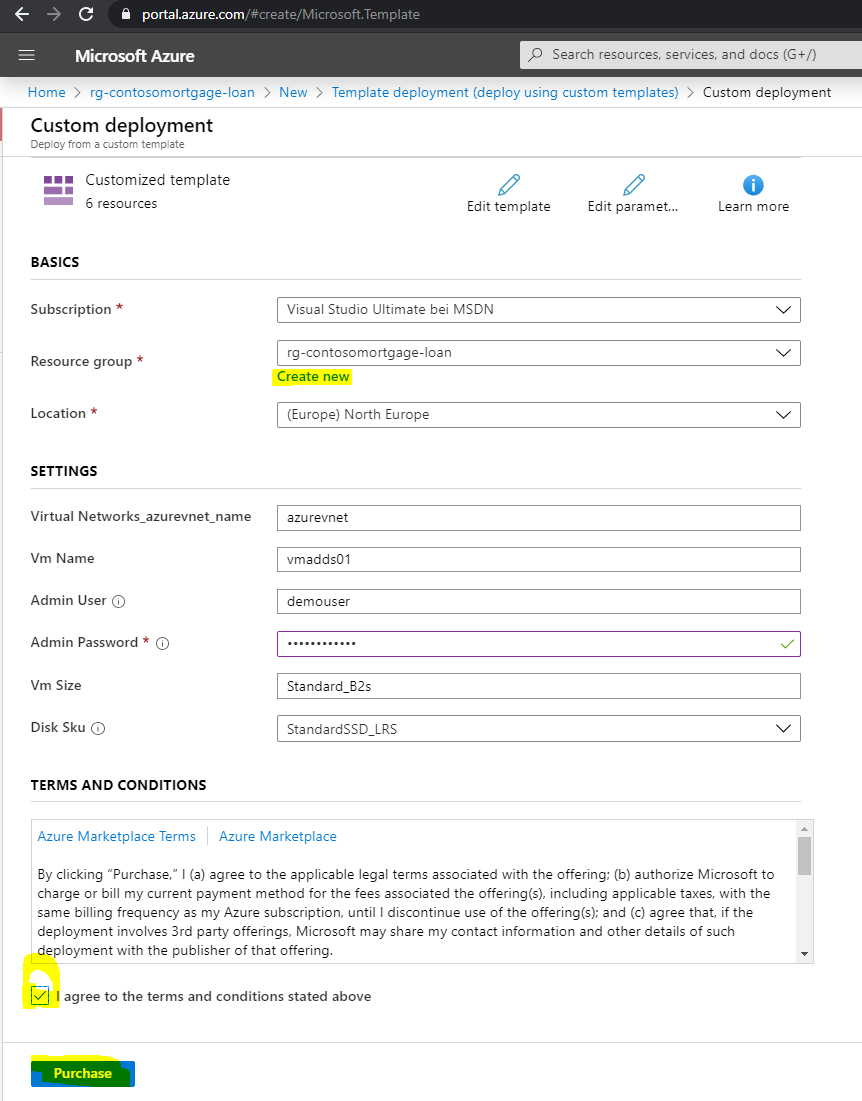
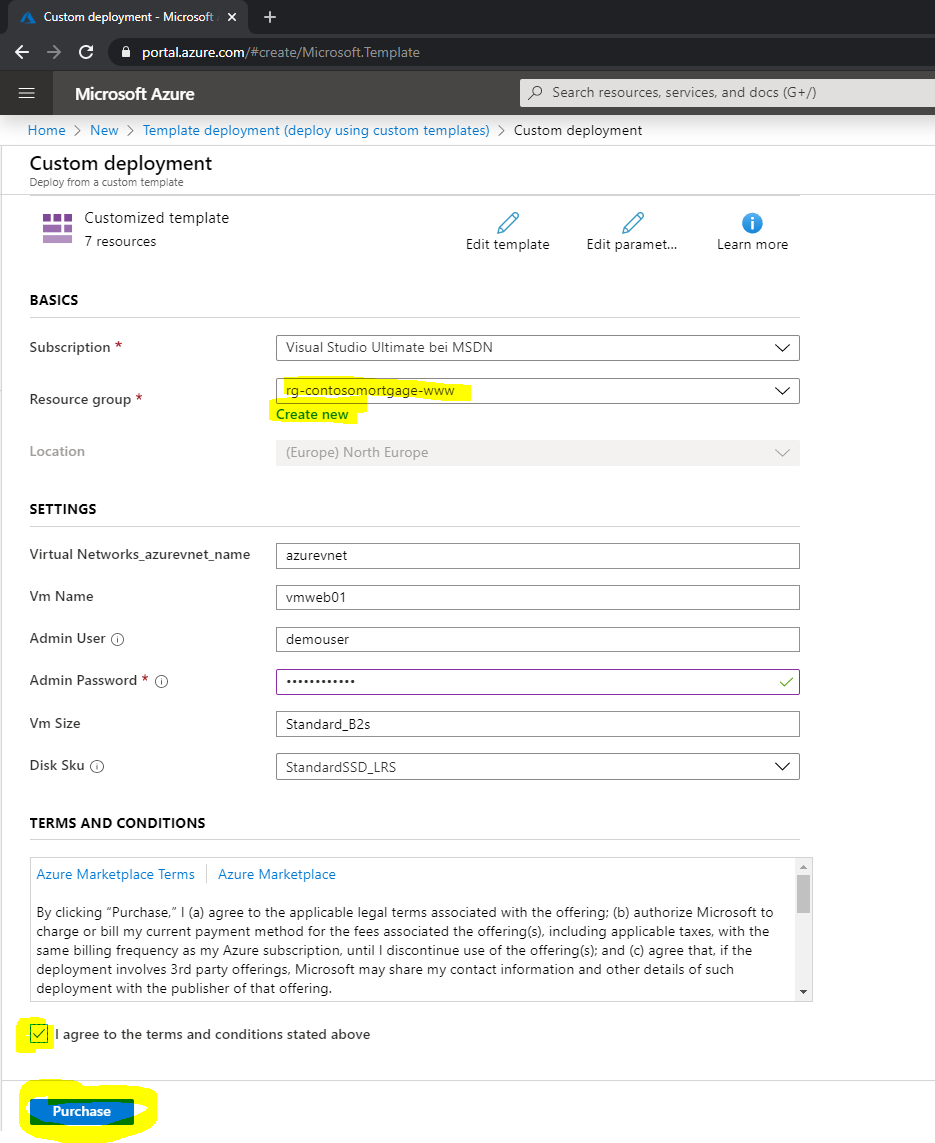
Updates

diff --git a/day1/challenges/Challenge 2/challenge-2.md b/day1/challenges/Challenge 2/challenge-2.md
@@ -1,4 +1,4 @@
-# Challenge 2: Create Azure Resources using an ARM Template 
+# Challenge 2: ARM: Create a VM and other Azure Resources using an ARM Template 
 [back](../../readme.md)  
 
 In this module you will **not learn** how to build an ARM template yourself. We'll do this at a later point in time.  
@@ -11,29 +11,29 @@ ARM _'powered'_ deployments are:
 
 ## Here is what you will learn ##
 
-- Creating azure resources using an ARM template and the portal.
+- Creating some azure resources (VNET, Subnets, VM,...) using an ARM template and the portal.
 
 ## Deploy an ARM template using the portal
 
-1. Please **cleanup** all resources that have been created in this workshop e.g. by deleting the resource groups.  
+0. _optional_ **Cleanup** all resources that have been created in this workshop e.g. by deleting the resource groups.  
 
-2. Login to your azure subscription **and search the marketplace for 'Template Deployment'**    
+1. Login to your azure subscription **and search the marketplace for 'Template Deployment'**    
 ![Azure Template Deployment](TemplateDeployment.png)
   
-3. Create -> select '**Build your own template in the editor**'
-4. Copy the RAW view of [this ARM template](ARMOne.json) and paste it into the editor **clear first** window.  
+2. Create -> select '**Build your own template in the editor**'
+3. Copy the RAW view of [this ARM template](ARMOne.json) and paste it into the editor **clear first** window.  
 ->Save  
-5. **Create a resource group and set the location**  
+4. **Create a resource group and set the location**  
 
 | Resource Type |  Name | Values  |
 |---|---|---|
-| Resource Group  |  rg-contosomortgage-loan |  _location_ : North Europe |
+| Resource Group  |  rg-contosomortgage-www |  _location_ : North Europe |
 
 ![Template Deployment Enter Parameters](TemplateDeployment2.PNG)  
 and hit **Purchase** to trigger the deployment.
 
-6. **Once finished your deployment should look like**:
-[Azure Portal] -> Resource Group -> 'rg-contosomortgage-loan' -> Deployments -> 'Microsoft.Template' -> 'Deployment details'
+5. **Once finished your deployment should look like**:
+[Azure Portal] -> Resource Group -> 'rg-contosomortgage-www' -> Deployments -> 'Microsoft.Template' -> 'Deployment details'
 
 ![Template Deployment Results](TemplateDeployment3.PNG)  
 

diff --git a/day1/README.md b/day1/README.md
@@ -2,8 +2,12 @@
 
 [back](../readme.md)  
 
-- [Challenge 0: Create a virtual IPv4 network for your first VM.](challenges/Challenge%200/challenge-0.md)
-- [Challenge 1: Configure PowerShell for Azure Administration & Create a VM Using PowerShell.](challenges/Challenge%201/challenge-1.md)
-- [Challenge 2: Create Azure Resources using an ARM Template ](challenges/Challenge%202/challenge-2.md)
-- [Challenge 3: Backup Your VM Using Azure Backup ](challenges/Challenge%203/challenge-3.md)
-- [Challenge 4: xx](challenges/Challenge%204/challenge-4.md)
+- [Challenge 0: Networking: Create a Virtual Network (IPv4) for your first VM.](challenges/Challenge%200/challenge-0.md)
+- [Challenge 1: PowerShell: Configure PowerShell for Azure Administration & Create a VM Using PowerShell.](challenges/Challenge%201/challenge-1.md)
+- [Challenge 2: ARM: Create a VM and other Azure Resources using an ARM Template](challenges/Challenge%202/challenge-2.md)
+- [Challenge 3: VM - Azure Backup: Save your VM state](challenges/Challenge%203/challenge-3.md)
+- [Challenge 4: VM - Managed Disks: Attach a Data Disk to a VM - Extend and Retype it.](challenges/Challenge%204/challenge-4.md)
+- [Challenge 5: VM - Custom Script Extensions: Post deployment automation - or - configure / setup / install something within an empty vm](challenges/Challenge%205/challenge-5.md)
+- [Challenge 6: Storage Account: Creating a Data Storage for VMs and Applications](challenges/Challenge%206/challenge-6.md)
+- [Challenge 7: Networking: Loadbalancing your WWW Server Farm](challenges/Challenge%207/challenge-7.md)
+- [Challenge 8: XX](challenges/Challenge%208/challenge-8.md)

diff --git a/day1/challenges/Challenge 5/challenge-5.md b/day1/challenges/Challenge 5/challenge-5.md
@@ -1,0 +1,25 @@
+# Challenge 5: VM - Custom Script Extensions: Post deployment automation
+## or - configure / setup / install something within an empty vm ##  
+
+[back](../../readme.md)  
+
+## Here is what you will learn ##
+-  
+
+
+## Attach a simple HelloWorld Custom Script Extension (CSE) to a VM using the Portal ##
+
+## '_Tracing_' CSEs inside the VM
+RDP into Logon to the VM
+c:\...
+CSE Logging / Troubleshooting
+
+
+
+## Attaching a CSE to a VM in an ARM Template ##
+One CSE after another -> remove first 
+What do we want to to: Installing Windows Features within the VM 
+->take a look into the code.
+Now Place scripts into an accessable folder (github / storage account,...)
+Edit the ARM template to find the scripts location
+Deploy the ARM Template.

diff --git a/day1/challenges/Challenge 3/challenge-3.md b/day1/challenges/Challenge 3/challenge-3.md
@@ -1,4 +1,4 @@
-# Challenge 3: Backup Your VM Using Azure Backup 
+# Challenge 3: VM - Azure Backup: Save your VM state
 [back](../../readme.md)  
 
 ## Here is what you will learn ##
@@ -10,7 +10,7 @@
 
 ## Create a Backup Vault ##
 ```
-[Azure Portal] -> Resource Groups -> 'rg-contosomortgage-loan' -> 'vmadds01'
+[Azure Portal] -> Resource Groups -> 'rg-contosomortgage-www' -> 'vmadds01'
   -> Operations -> Backup
 
 Recovery Services vault -> 'Create new' -> 'vault...'

diff --git a/day1/challenges/Challenge 4/challenge-4.md b/day1/challenges/Challenge 4/challenge-4.md
@@ -1,8 +1,7 @@
-# Challenge 4: 
+# Challenge 4: VM - Managed Disks: Attach a Data Disk to a VM - Extend and Retype it.
 [back](../../readme.md)  
 
 ## Here is what you will learn ##
 
-- How to backup an azure vm using the azure backup service.
-- Create a backup vault
-- Recover a file
+- Add data disk -> partition -> format it -> resize -> retype disk 
+   -> perftest a disk -> iometer/ diskspd -> stripe disk

diff --git a/day1/challenges/Challenge 1/challenge-1.md b/day1/challenges/Challenge 1/challenge-1.md
@@ -1,4 +1,4 @@
-# Challenge 1: Configure PowerShell for Azure Administration & Create a VM Using PowerShell.
+# Challenge 1: PowerShell: Configure PowerShell for Azure Administration & Create a VM Using PowerShell.
 
 [back](../../readme.md)
 

diff --git a/day1/challenges/Challenge 0/challenge-0.md b/day1/challenges/Challenge 0/challenge-0.md
@@ -1,4 +1,4 @@
-# Challenge 0: Create a virtual IPv4 network for your first VM.
+# Challenge 0: Networking: Create a Virtual Network (IPv4) for your first VM.
 
 [back](../../readme.md)
 
